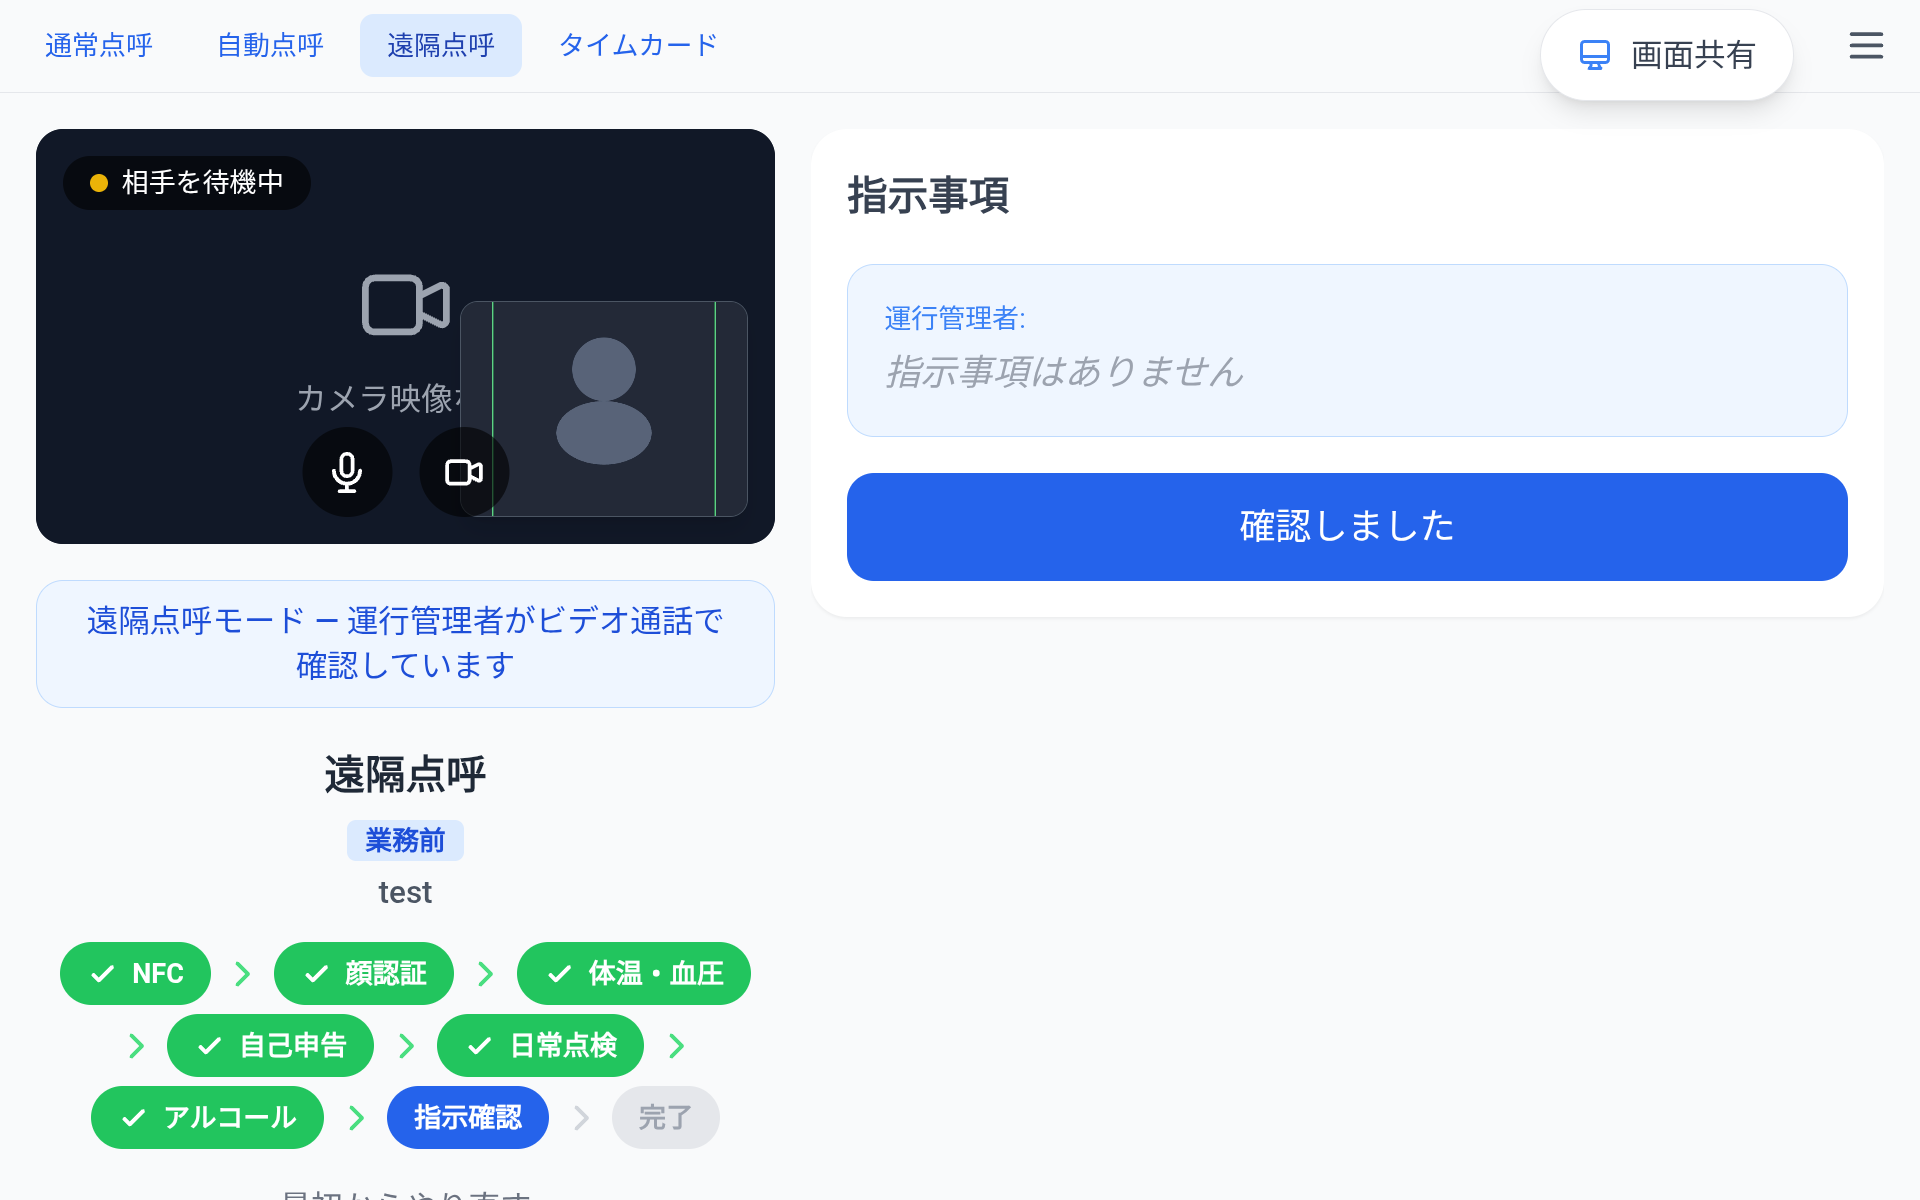
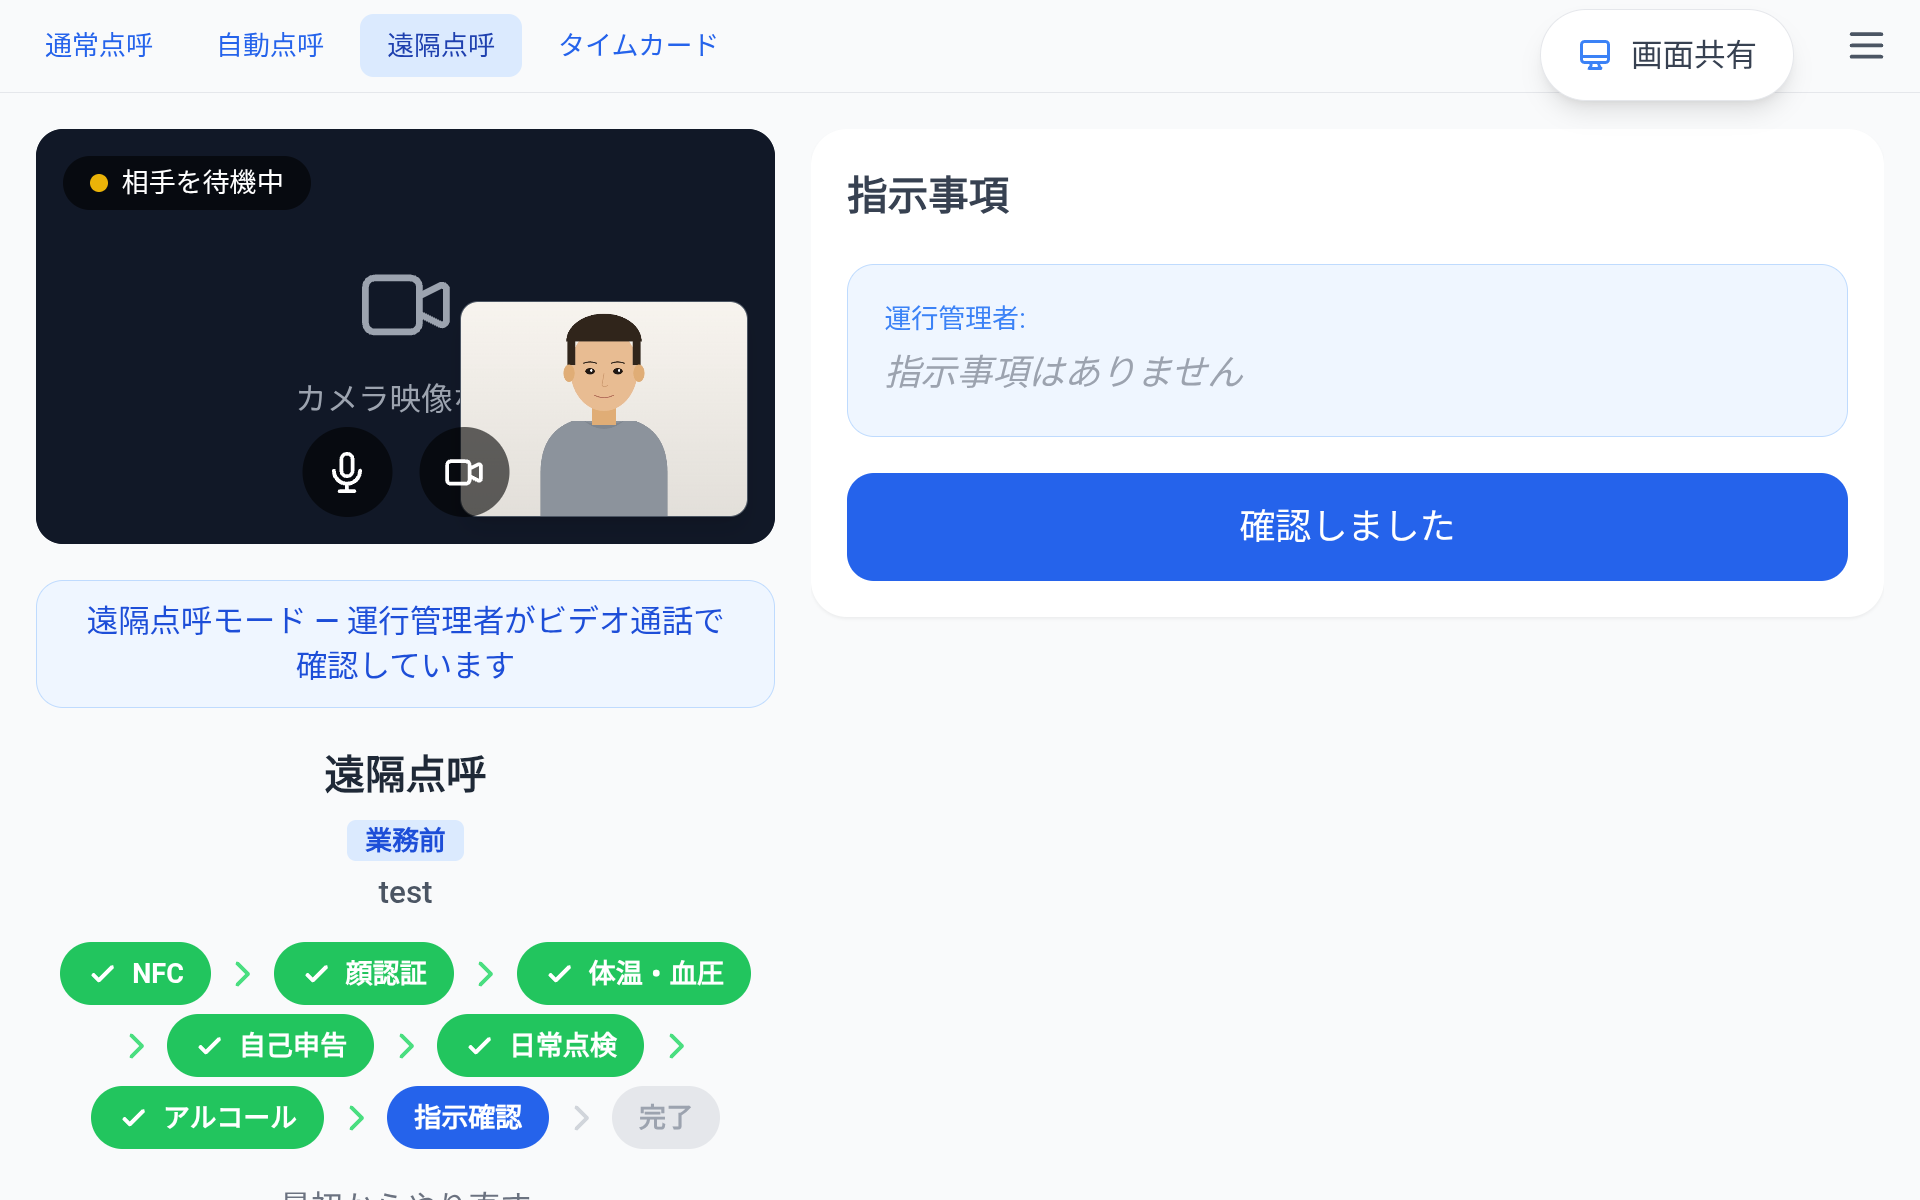
docs: update manual with screenshots and dummy camera images
- Consolidate operator guide into single scrollable page
- Add 23 screenshots (NFC, face auth, alcohol, medical, tenko, etc.)
- Replace face photos with dummy camera illustrations
- Remove navigation.sections for expanded sidebar
- Update admin employee-management with screenshots

Changed region(s): [[0.2188, 0.2467, 0.4062, 0.4317]]

diff --git a/docs/operator/face-auth.md b/docs/operator/face-auth.md
@@ -14,8 +14,7 @@
 4. 検出条件（顔サイズ、正面向き、まばたき）がすべて緑色になったら、確認ダイアログが表示されます
 5. 「登録する」をタップして登録を完了します
 
-<!-- TODO: 顔を合成加工した画像に差し替え -->
-![顔登録確認画面](../images/operator-face-register-raw.png)
+![顔登録確認画面](../images/operator-face-register.png)
 
 ### 撮影のコツ
 
@@ -28,8 +27,7 @@
 
 点呼フロー中に自動で顔認証ステップに進みます。
 
-<!-- TODO: 顔を合成加工した画像に差し替え -->
-![顔認証画面](../images/operator-face-auth-raw.png)
+![顔認証画面](../images/operator-face-auth.png)
 
 画面下部に検出ステータスが表示されます:
 
